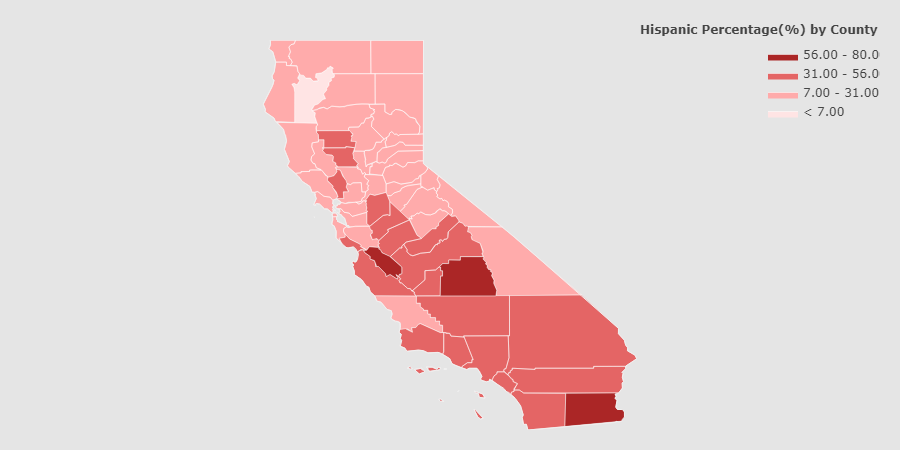
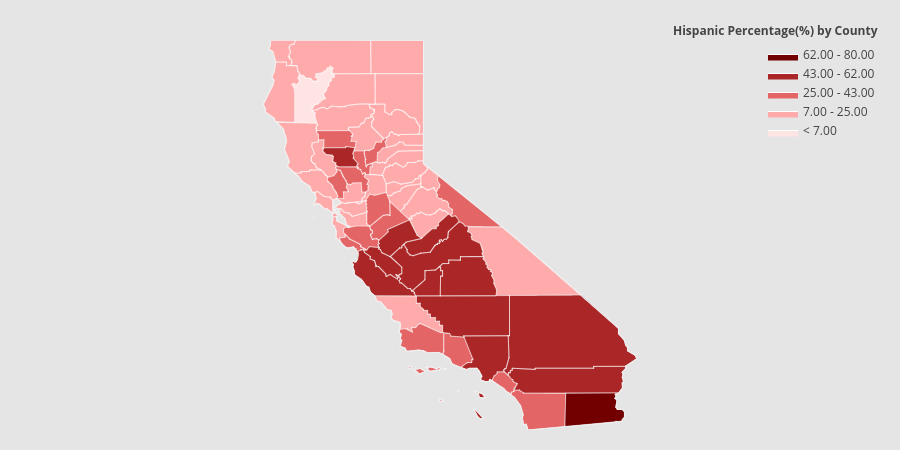
Updated GeoPlots of all ethnicities!

Changed region(s): [[0.3733, 0.4044, 0.7156, 0.9644], [0.7156, 0.0311, 0.9956, 0.3111], [0.3422, 0.3111, 0.4356, 0.4356]]

diff --git a/GeoPlot/Asian_byCounty.py b/GeoPlot/Asian_byCounty.py
@@ -8,7 +8,7 @@ plotly.tools.set_credentials_file(username='TKKKKK', api_key='ekYjsBAHMq2ChtKrqU
 df_sample = pd.read_csv('CA_County_Eth.csv')
 df_sample_r = df_sample[df_sample['STNAME'] == 'California']
 
-values = np.array(df_sample_r['BLACK'].tolist())
+values = np.array(df_sample_r['ASIAN'].tolist())
 minimum = np.min(values)
 values = values + (1.01 - minimum)
 values = values.tolist()
@@ -16,14 +16,14 @@ fips = df_sample_r['FIPS'].tolist()
 
 endpts = list(np.mgrid[min(values):max(values):5j])
 
-colorscale = ["#c4f09e","#91d84f","#59981f","#437218","#325214","#243a0e"]
+colorscale = ["#f8dfc3","#f3c69b","#f29b50","#c96b13","#9b5912","#753c0a"]
 fig = ff.create_choropleth(
     fips=fips, values=values, scope=['California'], show_state_data=True,
     colorscale=colorscale, binning_endpoints=endpts, round_legend_values=True,
     plot_bgcolor='rgb(229,229,229)',
     paper_bgcolor='rgb(229,229,229)',
-    legend_title='Black Percentage(%) by County',
+    legend_title='Asian Percentage(%) by County',
     county_outline={'color': 'rgb(255,255,255)', 'width': 0.5},
     exponent_format=True,
 )
-py.iplot(fig, filename='Black_byCounty')
+py.iplot(fig, filename='Asian_byCounty')

diff --git a/GeoPlot/Mixed_byCounty.py b/GeoPlot/Mixed_byCounty.py
@@ -8,7 +8,7 @@ plotly.tools.set_credentials_file(username='TKKKKK', api_key='ekYjsBAHMq2ChtKrqU
 df_sample = pd.read_csv('CA_County_Eth.csv')
 df_sample_r = df_sample[df_sample['STNAME'] == 'California']
 
-values = np.array(df_sample_r['BLACK'].tolist())
+values = np.array(df_sample_r['MIXED'].tolist())
 minimum = np.min(values)
 values = values + (1.01 - minimum)
 values = values.tolist()
@@ -16,14 +16,14 @@ fips = df_sample_r['FIPS'].tolist()
 
 endpts = list(np.mgrid[min(values):max(values):5j])
 
-colorscale = ["#c4f09e","#91d84f","#59981f","#437218","#325214","#243a0e"]
+colorscale = ["#dcb1fb","#b967f4","#9a28eb","#6415b7","#441574","#2e124f"]
 fig = ff.create_choropleth(
     fips=fips, values=values, scope=['California'], show_state_data=True,
     colorscale=colorscale, binning_endpoints=endpts, round_legend_values=True,
     plot_bgcolor='rgb(229,229,229)',
     paper_bgcolor='rgb(229,229,229)',
-    legend_title='Black Percentage(%) by County',
+    legend_title='Mixed Percentage(%) by County',
     county_outline={'color': 'rgb(255,255,255)', 'width': 0.5},
     exponent_format=True,
 )
-py.iplot(fig, filename='Black_byCounty')
+py.iplot(fig, filename='Mixed_byCounty')

diff --git a/GeoPlot/Other_byCounty.py b/GeoPlot/Other_byCounty.py
@@ -8,7 +8,7 @@ plotly.tools.set_credentials_file(username='TKKKKK', api_key='ekYjsBAHMq2ChtKrqU
 df_sample = pd.read_csv('CA_County_Eth.csv')
 df_sample_r = df_sample[df_sample['STNAME'] == 'California']
 
-values = np.array(df_sample_r['BLACK'].tolist())
+values = np.array(df_sample_r['OTHER'].tolist())
 minimum = np.min(values)
 values = values + (1.01 - minimum)
 values = values.tolist()
@@ -16,14 +16,14 @@ fips = df_sample_r['FIPS'].tolist()
 
 endpts = list(np.mgrid[min(values):max(values):5j])
 
-colorscale = ["#c4f09e","#91d84f","#59981f","#437218","#325214","#243a0e"]
+colorscale = ["#f9fab7","#eeef48","#dbb029","#9c7316","#553911","#432f1e"]
 fig = ff.create_choropleth(
     fips=fips, values=values, scope=['California'], show_state_data=True,
     colorscale=colorscale, binning_endpoints=endpts, round_legend_values=True,
     plot_bgcolor='rgb(229,229,229)',
     paper_bgcolor='rgb(229,229,229)',
-    legend_title='Black Percentage(%) by County',
+    legend_title='Other Percentage(%) by County',
     county_outline={'color': 'rgb(255,255,255)', 'width': 0.5},
     exponent_format=True,
 )
-py.iplot(fig, filename='Black_byCounty')
+py.iplot(fig, filename='Other_byCounty')

diff --git a/GeoPlot/White_byCounty.py b/GeoPlot/White_byCounty.py
@@ -11,16 +11,14 @@ df_sample_r = df_sample[df_sample['STNAME'] == 'California']
 values = df_sample_r['WHITE'].tolist()
 fips = df_sample_r['FIPS'].tolist()
 
-endpts = list(np.mgrid[min(values):max(values):4j])
-# colorscale = ["#550909","#720000","#8E1010","#AB2626","#C74242",
-            #   "#E46565","#FF8E8E","#FFABAB","#FFC7C7","#FFE4E4"]
-colorscale = ["#b7e0e4","#60a7c7","#3e6ab0","#323268","#030512"]
+endpts = list(np.mgrid[min(values):max(values):5j])
+colorscale = ["#b7e0e4","#60a7c7","#3e6ab0","#274777","#233158","#1d1a2d"]
 fig = ff.create_choropleth(
     fips=fips, values=values, scope=['California'], show_state_data=True,
     colorscale=colorscale, binning_endpoints=endpts, round_legend_values=True,
     plot_bgcolor='rgb(229,229,229)',
     paper_bgcolor='rgb(229,229,229)',
-    legend_title='Hispanic Percentage(%) by County',
+    legend_title='White Percentage(%) by County',
     county_outline={'color': 'rgb(255,255,255)', 'width': 0.5},
     exponent_format=True,
 )

diff --git a/GeoPlot/Hispanic_byCounty.py b/GeoPlot/Hispanic_byCounty.py
@@ -11,10 +11,8 @@ df_sample_r = df_sample[df_sample['STNAME'] == 'California']
 values = df_sample_r['HISPANIC'].tolist()
 fips = df_sample_r['FIPS'].tolist()
 
-endpts = list(np.mgrid[min(values):max(values):4j])
-# colorscale = ["#550909","#720000","#8E1010","#AB2626","#C74242",
-            #   "#E46565","#FF8E8E","#FFABAB","#FFC7C7","#FFE4E4"]
-colorscale = ["#FFE4E4","#FFABAB","#E46565","#AB2626","#720000"]
+endpts = list(np.mgrid[min(values):max(values):5j])
+colorscale = ["#FFE4E4","#FFABAB","#E46565","#AB2626","#720000","#3f0306"]
 fig = ff.create_choropleth(
     fips=fips, values=values, scope=['California'], show_state_data=True,
     colorscale=colorscale, binning_endpoints=endpts, round_legend_values=True,
